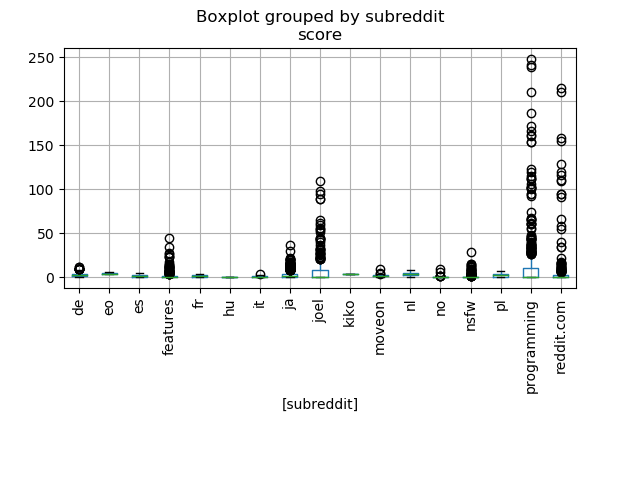
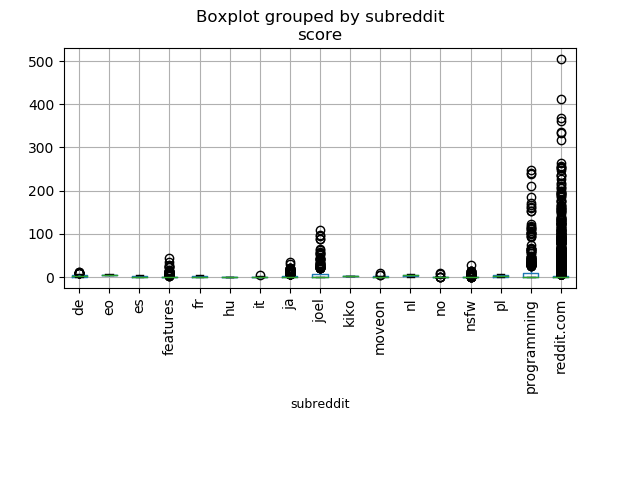
new figures

diff --git a/data_exploration.py b/data_exploration.py
@@ -36,6 +36,10 @@ train_set_pd = df_train.toPandas()
 """ Correlation matrix of numerical/boolean data"""
 train_set_pd.corr() 
 
+df_train_trans = spark.read.json('train.json')
+df_test_trans = spark.read.json('test.json')
+df_train_trans_pd = df_train_trans.toPandas()
+
 """ Scores grouped by author/ domain"""
 import matplotlib.pyplot as plt
 plt.figure(figsize=[30,40])
@@ -48,19 +52,34 @@ plt.figure(figsize=[40, 80])
 train_set_pd[['domain', 'score']].sort_values(by='domain')[0:300].boxplot(by='domain') 
 plt.gcf().subplots_adjust(bottom=0.4) 
 plt.xticks(rotation=90) 
+plt.xlabel('domains', fontsize=7)
 plt.savefig('./figures/boxplot_score_groupedby_domain') 
 
 plt.figure(figsize=[40, 40]) 
-train_set_pd[['subreddit', 'score']].sort_values(by='subreddit')[0:4000].boxplot(by='subreddit') 
+train_set_pd[['subreddit', 'score']].sort_values(by='subreddit')[0:7000].boxplot(by='subreddit') 
 plt.gcf().subplots_adjust(bottom=0.4) 
+plt.xlabel('subreddit', fontsize=9)
 plt.xticks(rotation=90) 
 plt.savefig('./figures/boxplot_score_groupedby_subreddit') 
 
 plt.figure(figsize=[40, 40]) 
-train_set_pd[['subreddit_type', 'score']].sort_values(by='subreddit_type')[0:4000].boxplot(by='subreddit_type') 
+train_set_pd[['subreddit_type', 'score']].sort_values(by='subreddit_type').boxplot(by='subreddit_type') 
 plt.gcf().subplots_adjust(bottom=0.4) 
 plt.xticks(rotation=90) 
 plt.savefig('./figures/boxplot_score_groupedby_subreddit_type') 
+
+plt.figure(figsize=[40, 40]) 
+df_train_trans_pd[['day_of_week', 'score']].boxplot(by='day_of_week') 
+plt.gcf().subplots_adjust(bottom=0.4) 
+plt.xticks(rotation=90) 
+plt.savefig('./figures/boxplot_score_groupedby_dayofweek') 
+
+plt.figure(figsize=[40, 40]) 
+df_train_trans_pd[['hour', 'score']].boxplot(by='hour') 
+plt.gcf().subplots_adjust(bottom=0.4) 
+plt.xticks(rotation=90) 
+plt.xlabel('hour', fontsize=8)
+plt.savefig('./figures/boxplot_score_groupedby_hour') 
 
 """ Score column (y label) histogram """
 plt.figure()
